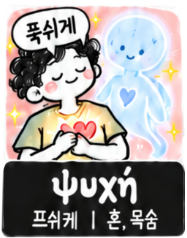
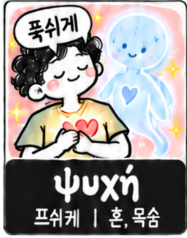
Add files via upload

diff --git a/index.html b/index.html
@@ -7,7 +7,7 @@
 <meta name="apple-mobile-web-app-capable" content="yes">
 <meta name="apple-mobile-web-app-status-bar-style" content="black-translucent">
 <meta name="apple-mobile-web-app-title" content="헬라어">
-<title>헬라어 단어장 · 그림모드 v6</title>
+<title>헬라어 단어장 · 그림모드 v6.1</title>
[1 lines of base64/hex data omitted]
 <link rel="apple-touch-icon" href="icon-180.png">
 <style>
@@ -461,6 +461,11 @@ justify-content:center;align-items:center;text-align:center}
 .full-line{padding-right:79px}
 .full-note-btn{width:auto;height:auto;top:12px;right:2px;padding:5px 8px;border:1px solid var(--line);border-radius:999px;background:#fff;color:var(--brand-dark);font-weight:850;font-size:12px}
 
+
+/* v6.1: Make portrait cartoon cards occupy the available picture canvas.
+   Preserve full image, without cropping; do not change other modes. */
+#pictureFace .picture-area{min-height:0;min-width:0;width:100%;height:100%;box-sizing:border-box;overflow:hidden;padding:6px 12px;display:flex;align-items:center;justify-content:center}
+#pictureFace .picture-area img{display:block;height:100%;width:auto;max-width:100%;max-height:100%;min-height:0;min-width:0;object-fit:contain;object-position:center;border-radius:12px}
 </style>
 
 <link rel="manifest" href="manifest.webmanifest">
